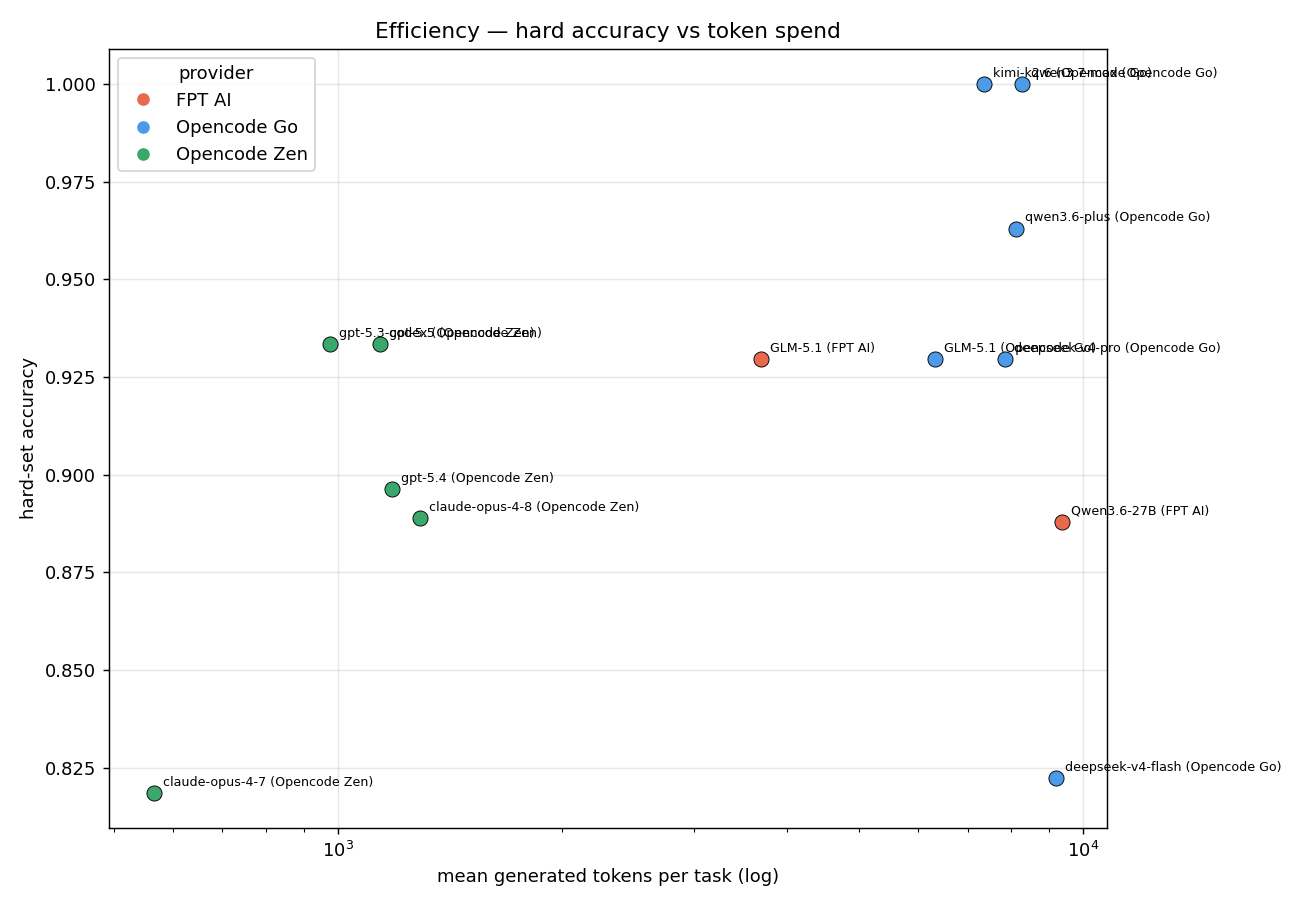
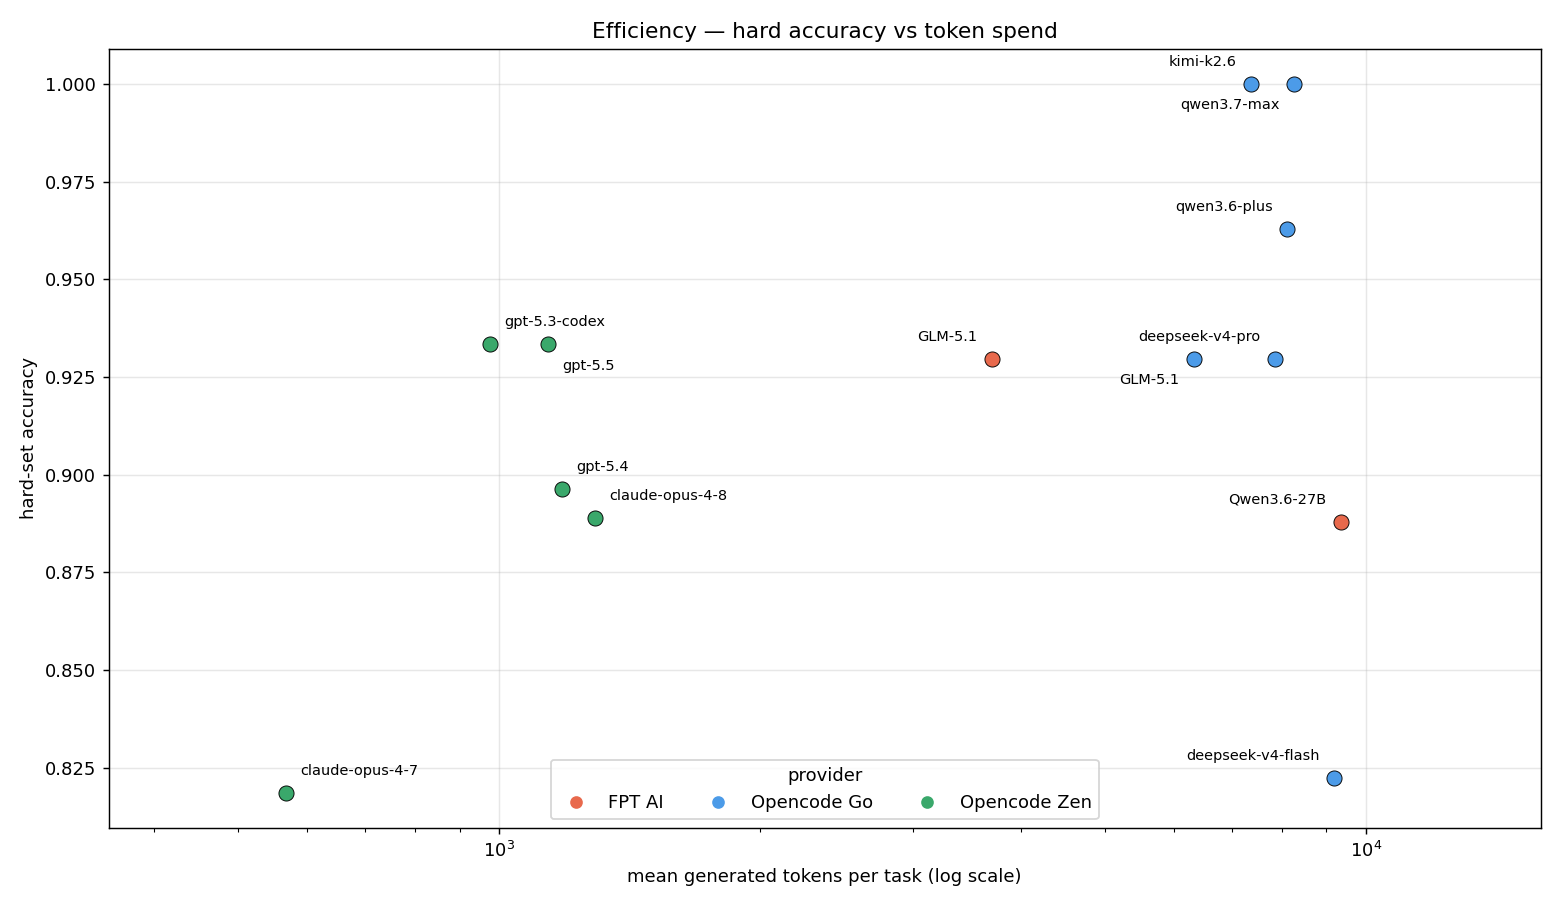
fix: declutter efficiency scatter labels to prevent overflow
Drop redundant provider suffix from in-plot labels (colour already encodes it), anchor right-side labels leftward, stagger same-accuracy labels, widen axes margins, and move the legend to lower-center to clear the corner points.

diff --git a/scripts/build_report.py b/scripts/build_report.py
@@ -195,22 +195,40 @@ def chart_thinking_cost(extra: dict) -> None:
 
 
 def chart_efficiency(extra: dict) -> None:
+    colors = {"FPT AI": "#e8694c", "Opencode Go": "#4c9be8",
+              "Opencode Zen": "#3aa86b"}
     ok = [m for m in extra if extra[m]["status"] == "ok" and extra[m]["hard"]]
-    fig, ax = plt.subplots(figsize=(10, 7))
-    for m in ok:
-        x = extra[m]["mean_out"]
-        y = extra[m]["hard"]
-        color = {"FPT AI": "#e8694c", "Opencode Go": "#4c9be8",
-                 "Opencode Zen": "#3aa86b"}[extra[m]["provider"]]
-        ax.scatter(x, y, s=70, color=color, edgecolor="black", linewidth=0.5, zorder=3)
-        ax.annotate(m, (x, y), fontsize=7, xytext=(5, 4),
-                    textcoords="offset points")
+    pts = [(extra[m]["mean_out"], extra[m]["hard"], m) for m in ok]
+    xmin = min(p[0] for p in pts)
+    xmax = max(p[0] for p in pts)
+    mid = (xmin * xmax) ** 0.5  # geometric midpoint on the log axis
+
+    fig, ax = plt.subplots(figsize=(12, 7))
+    for x, y, m in pts:
+        ax.scatter(x, y, s=70, color=colors[extra[m]["provider"]],
+                   edgecolor="black", linewidth=0.5, zorder=3)
+
+    # Label = base name only (colour already encodes provider). Stagger labels
+    # that share an accuracy so they don't overprint, and anchor right-side
+    # points' text leftward so nothing overflows the axes.
+    by_y: dict[float, list] = {}
+    for x, y, m in sorted(pts, key=lambda p: p[0]):
+        by_y.setdefault(round(y, 3), []).append((x, y, m))
+    for group in by_y.values():
+        for k, (x, y, m) in enumerate(group):
+            right = x >= mid
+            ha = "right" if right else "left"
+            dx = -8 if right else 8
+            dy = 10 if (k % 2 == 0) else -14  # alternate above/below
+            ax.annotate(base_name_of(m), (x, y), fontsize=8, ha=ha,
+                        xytext=(dx, dy), textcoords="offset points")
+
     handles = [plt.Line2D([0], [0], marker="o", linestyle="", color=c, label=p)
-               for p, c in (("FPT AI", "#e8694c"), ("Opencode Go", "#4c9be8"),
-                            ("Opencode Zen", "#3aa86b"))]
-    ax.legend(handles=handles, title="provider")
-    ax.set_xlabel("mean generated tokens per task (log)")
+               for p, c in colors.items()]
+    ax.legend(handles=handles, title="provider", loc="lower center", ncol=3)
+    ax.set_xlabel("mean generated tokens per task (log scale)")
     ax.set_xscale("log")
+    ax.set_xlim(xmin / 1.6, xmax * 1.7)
     ax.set_ylabel("hard-set accuracy")
     ax.set_title("Efficiency — hard accuracy vs token spend")
     ax.grid(True, alpha=0.3)